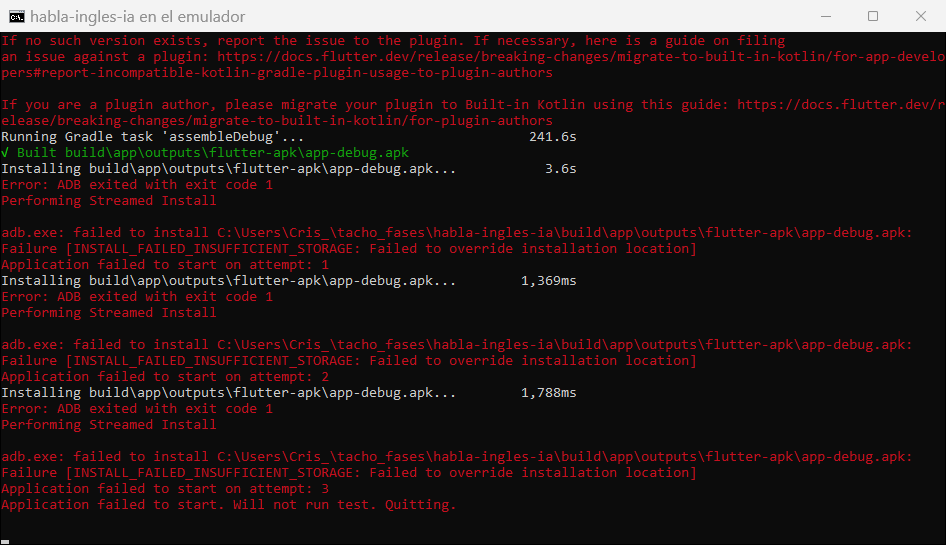
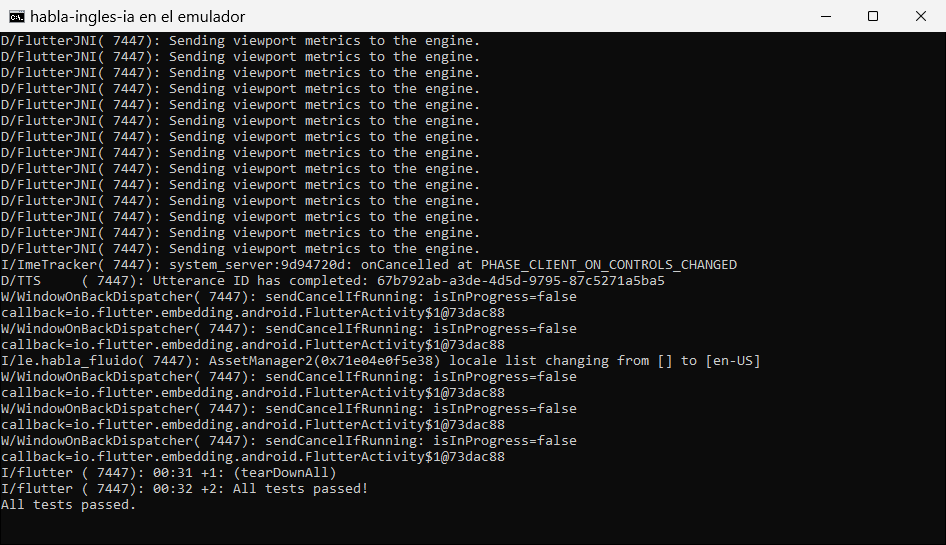
Capturas de la app corriendo en el emulador

Changed region(s): [[0.0, 0.0, 1.0, 0.9358]]

diff --git a/README.md b/README.md
@@ -135,6 +135,12 @@ Capturas tomadas en el emulador de Android con `flutter drive` (prueba de integr
 
 <img src="capturas/app/00_emulador.png" width="380">
 
+| | | |
+|:-:|:-:|:-:|
+| <img src="capturas/app/01_inicio_plan_de_hoy.png" width="230"><br>Inicio plan de hoy | <img src="capturas/app/02_escritura_con_correccion.png" width="230"><br>Escritura con correccion | <img src="capturas/app/03_conversacion_con_el_tutor.png" width="230"><br>Conversacion con el tutor |
+| <img src="capturas/app/04_lectura.png" width="230"><br>Lectura | <img src="capturas/app/05_dictado.png" width="230"><br>Dictado | <img src="capturas/app/06_pronunciacion.png" width="230"><br>Pronunciacion |
+| <img src="capturas/app/07_repaso_espaciado.png" width="230"><br>Repaso espaciado |   |   |
+
 **La prueba de integraci&oacute;n ejecutada desde el cmd**
 
 ![Prueba de integraci&oacute;n en el cmd](capturas/app/prueba_integracion_cmd.png)
